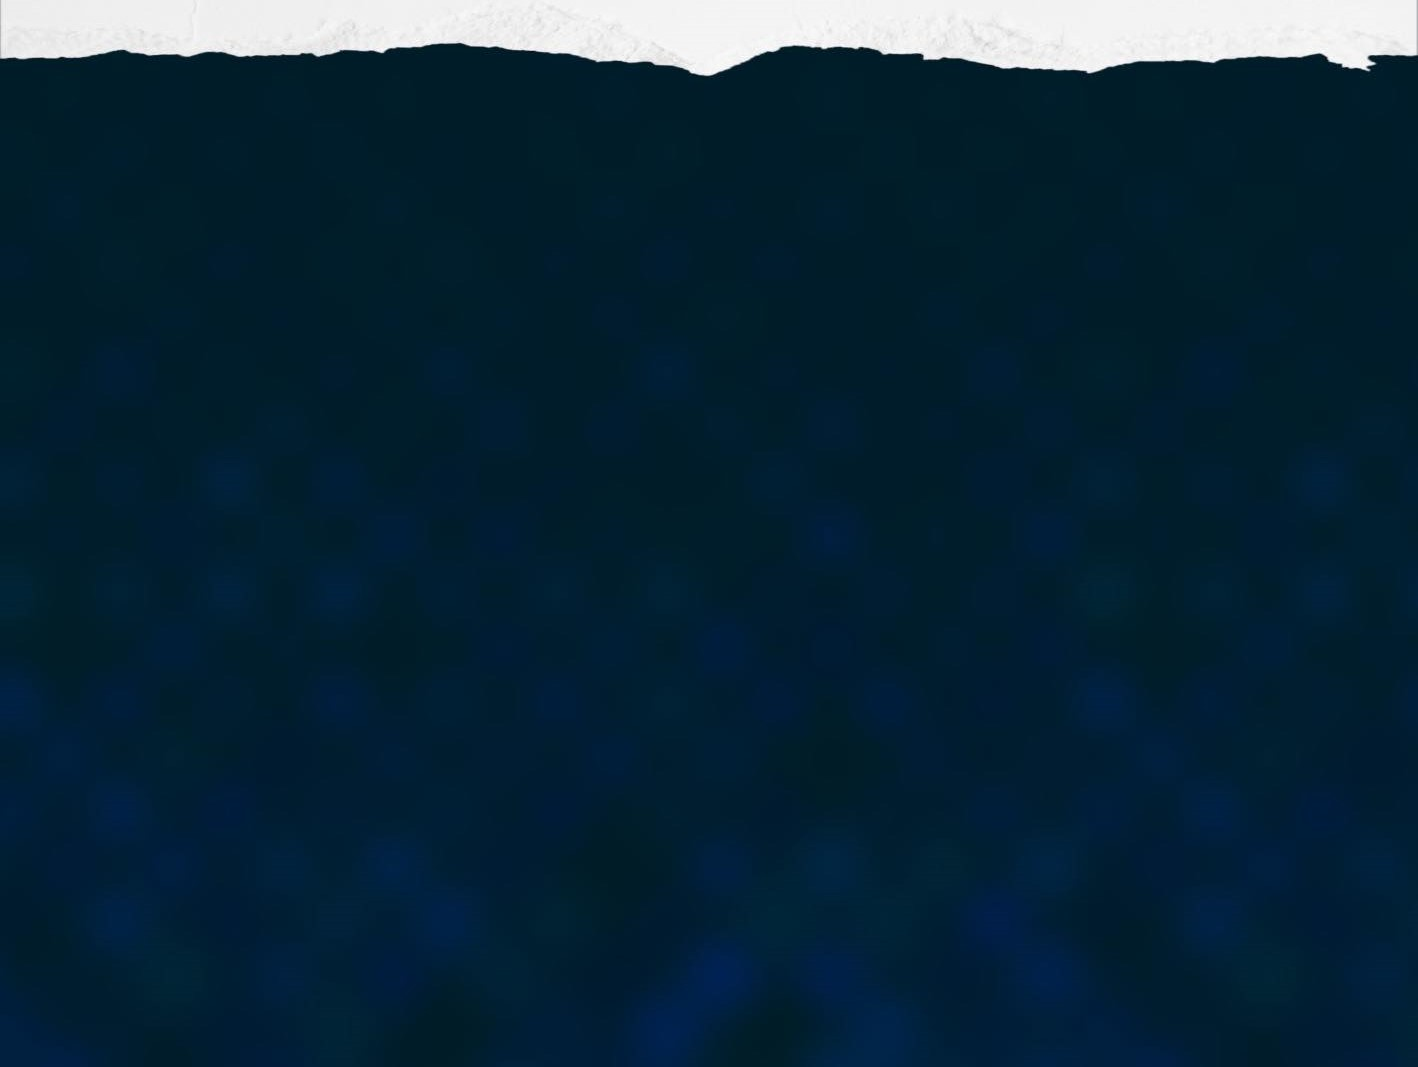
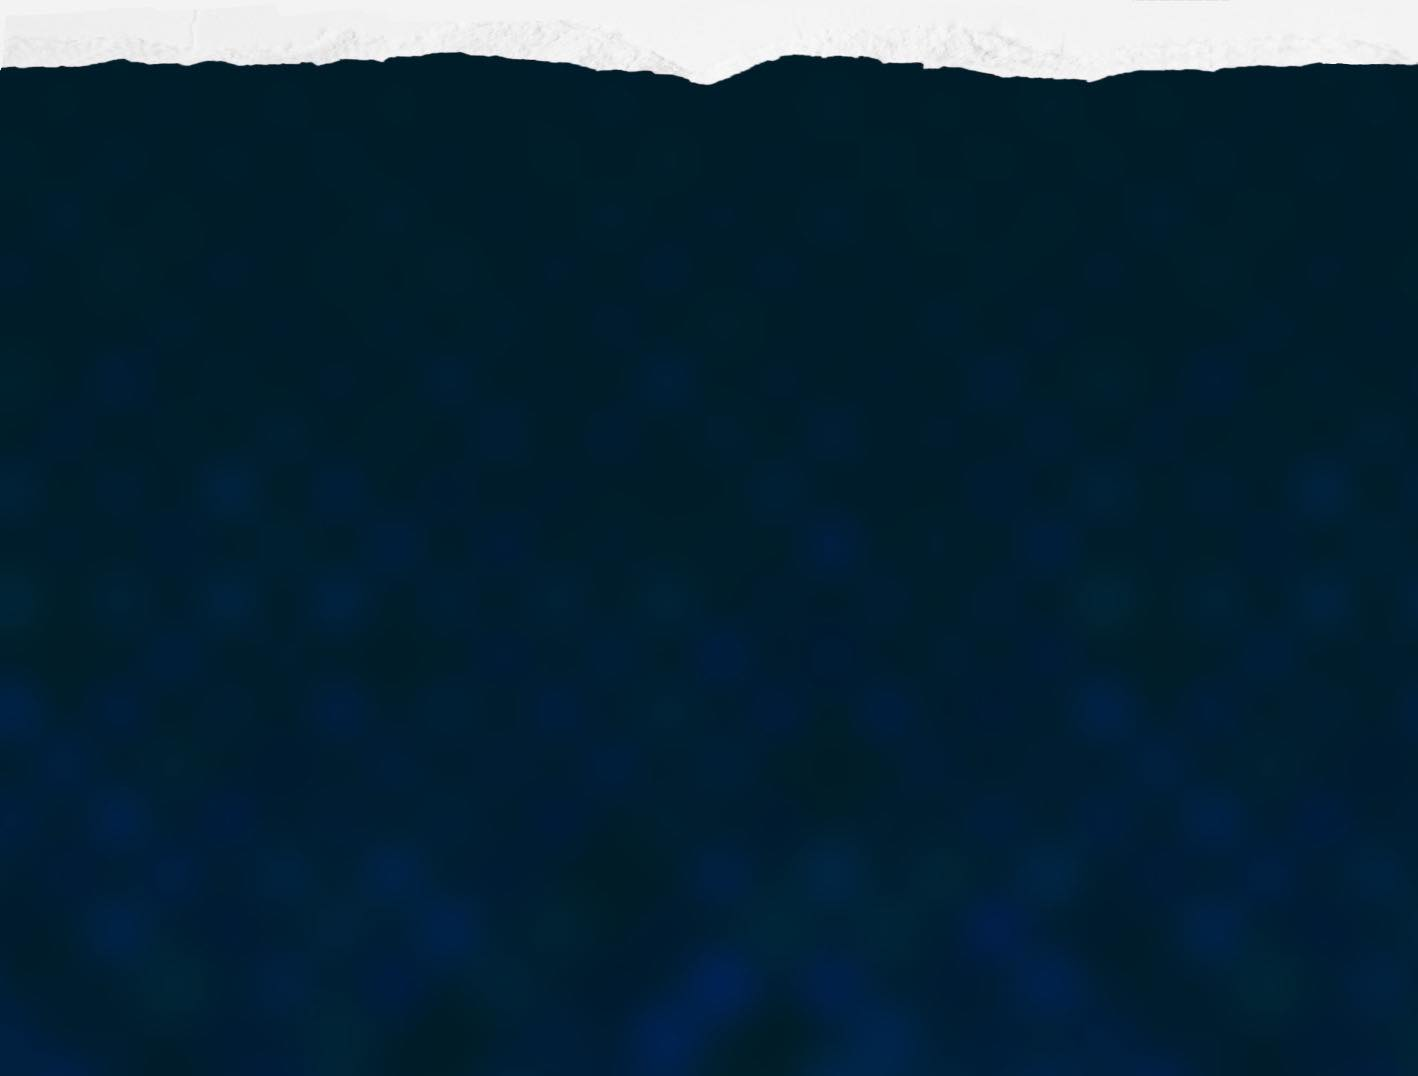
color change by changing page

Changed region(s): [[0.0, 0.0309, 0.5275, 0.0928], [0.6827, 0.0, 1.0, 0.0928], [0.5275, 0.0309, 0.6827, 0.0619]]

diff --git a/party.html b/party.html
@@ -9,13 +9,13 @@
     <link rel="stylesheet" type="text/css" href="https://cdnjs.cloudflare.com/ajax/libs/font-awesome/5.15.1/css/all.min.css">
 </head>
 <body>   
-    <div class="menuBar">
-        <a href="index.html" class="logo">Paramount</a>
+    <div class="menuBar" style="background-color: rgb(62, 20, 56);">
+        <a href="index.html" class="logo" style="color: rgb(203, 157, 196);">Paramount</a>
         <a href="index.html" class="button">Home</a>
         <a href="about.html" class="button">About</a>
         <a href="restaurant.html">Restaurant</a>
         <a href="wedding.html" class="button">Wedding</a>
-        <a href="party.html" class="button">Party</a>
+        <a href="party.html" class="button" style="color: rgb(62, 20, 56); background-color:white;">Party</a>
         <a href="">More 2</a>
         <a href="javascript:void(0);" class="menu_icon">Menu</a>
     </div>
@@ -33,7 +33,7 @@
         </div>
     </div>
 
-    <footer class="footer">
+    <footer class="footer" style="background-image: url(Images/Footer-background4.jpg);">
         <div class="container">
             <div class="row">
                 <div class="footer-col">

diff --git a/restaurant.html b/restaurant.html
@@ -9,11 +9,11 @@
     <link rel="stylesheet" type="text/css" href="https://cdnjs.cloudflare.com/ajax/libs/font-awesome/5.15.1/css/all.min.css">
 </head>
 <body>   
-    <div class="menuBar">
-        <a href="index.html" class="logo">Paramount</a>
+    <div class="menuBar" style="background-color: rgb(104, 53, 38);">
+        <a href="index.html" class="logo" style="color: rgb(207, 178, 169);">Paramount</a>
         <a href="index.html" class="button">Home</a>
         <a href="about.html" class="button">About</a>
-        <a href="restaurant.html">Restaurant</a>
+        <a href="restaurant.html" style="color:rgb(104, 53, 38); background-color:white">Restaurant</a>
         <a href="wedding.html" class="button">Wedding</a>
         <a href="party.html" class="button">Party</a>
         <a href="">More 2</a>
@@ -242,7 +242,7 @@
             </div>
     </div>
 
-    <footer class="footer">
+    <footer class="footer" style="background-image: url(Images/Footer-background2.jpg);">
         <div class="container">
             <div class="row">
                 <div class="footer-col">

diff --git a/index.html b/index.html
@@ -11,10 +11,10 @@
 <body>
     <div class="menuBar">
         <a href="index.html" class="logo">Paramount</a>
-        <a href="index.html" class="button">Home</a>
+        <a href="index.html" class="button" style="color:rgb(0, 29, 55); background-color:white">Home</a>
         <a href="about.html" class="button">About</a>
         <a href="restaurant.html" class="button">Restaurant</a>
-        <a href="wedding.html" class="button">Wedding</a>
+        <a href="wedding.html" class="button" >Wedding</a>
         <a href="party.html" class="button">Party</a>
         <a href="booking.html" class="button">Booking</a>
         <a href="javascript:void(0);" class="menu_icon"><i class="fa fa-bars"></i></a>
@@ -65,7 +65,7 @@
     </div>
     </div> 
 
-    <footer class="footer">
+    <footer class="footer" style="background-image: url(Images/Footer-background.jpg);">
         <div class="container">
             <div class="row">
                 <div class="footer-col">

diff --git a/style.css b/style.css
@@ -47,7 +47,7 @@ body {
   height: 2px;
   bottom: 0;
   left: 0;
-  background-color: rgb(97, 123, 139);
+  background-color: rgb(141, 141, 141);
   transform: scaleX(0);
   transition: transform 0.3s ease;
 }
@@ -197,17 +197,18 @@ body {
 }
 
 .backgroundImage-text.wedding{
-    background: rgb(187, 210, 197);
-    color: rgb(68, 86, 97);
+    background: rgb(68, 86, 97);
+    
+    color: rgb(255, 255, 255);
 }
 
 .backgroundImage-text.party{
-    background: rgb(181, 142, 212);
-    color: rgb(85, 0, 78);
+    background: rgb(85, 0, 78);
+    color: rgb(255, 255, 255);
 }
 .backgroundImage-text.cafe{
-    background: rgb(199, 96, 65);
-    color: darkred;
+    background: rgb(141, 72, 51);
+    color: rgb(255, 255, 255);
 }
 
 .row{
@@ -498,7 +499,6 @@ body {
     padding: 0;
 }
 .footer{
-    background-image: url("Images/Footer-background.jpg");
     background-position: top center;
     background-repeat: no-repeat;
     background-size: cover;

diff --git a/wedding.html b/wedding.html
@@ -14,12 +14,12 @@
     </style>
 </head>
 <body>   
-    <div class="menuBar">
+    <div class="menuBar" style="background-color: rgb(46, 60, 69);">
         <a href="index.html" class="logo">Paramount</a>
         <a href="index.html" class="button">Home</a>
         <a href="about.html" class="button">About</a>
         <a href="restaurant.html">Restaurant</a>
-        <a href="wedding.html" class="button">Wedding</a>
+        <a href="wedding.html" class="button" style="color: rgb(46, 60, 69); background-color:white;">Wedding</a>
         <a href="party.html" class="button">Party</a>
         <a href="">More 2</a>
         <a href="javascript:void(0);" class="menu_icon">Menu</a>
@@ -58,7 +58,7 @@
         </div>
     </div>
 
-    <footer class="footer">
+    <footer class="footer" style="background-image: url(Images/Footer-background3.jpg);">
         <div class="container">
             <div class="row">
                 <div class="footer-col">
